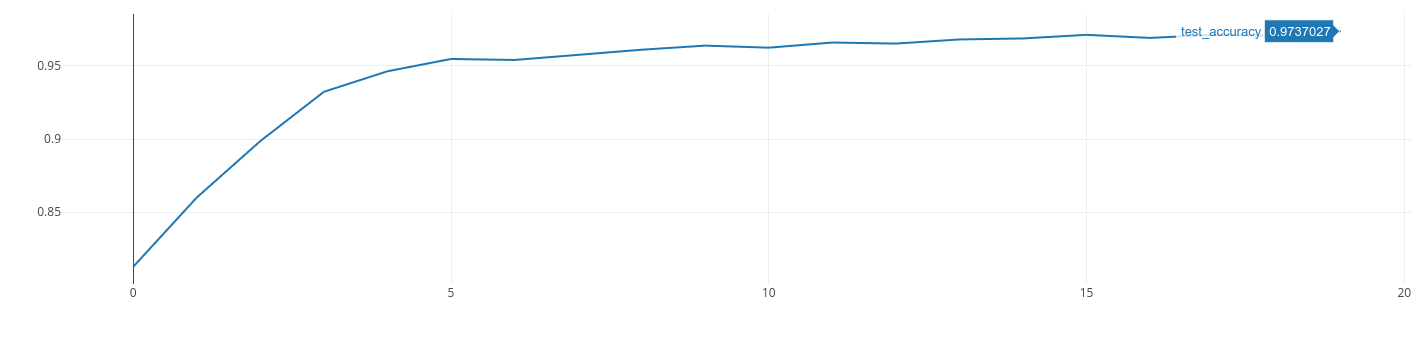
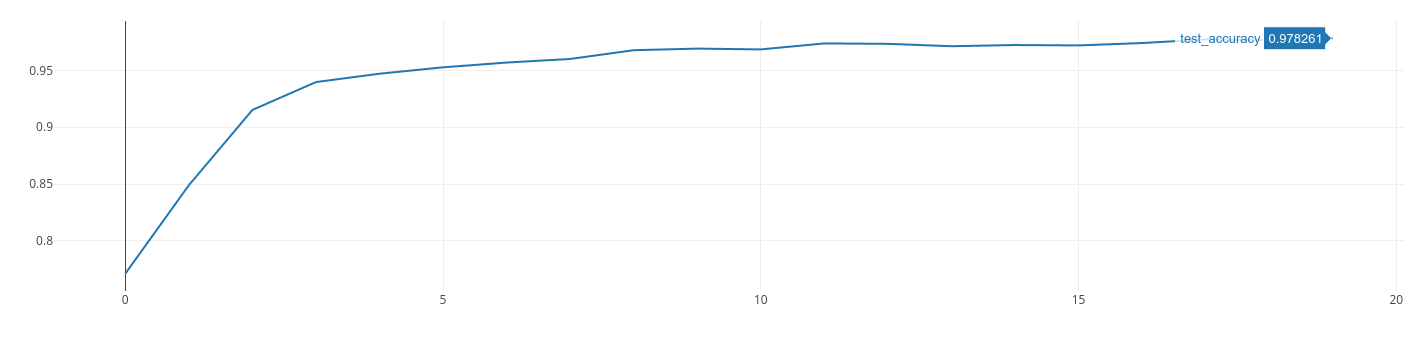
update torch

diff --git a/experiments/train_pytorch/train_pytorch.py b/experiments/train_pytorch/train_pytorch.py
@@ -45,10 +45,11 @@ class GestureClassifier(nn.Module):
 def train(
     model, train_loader, test_loader, criterion, optimizer, num_epochs=10, batch_size=128, device=torch.device("cpu")
 ):
-    # Train the model
-    train_predicted = []
-    train_labels = []
     for epoch in tqdm(range(num_epochs), desc="Epochs"):
+        # Train the model
+        train_predicted = []
+        train_labels = []
+
         # Set the model to training mode
         model.train()
 
@@ -124,7 +125,6 @@ def train(
                 test_labels.extend(labels.tolist())
 
         # Compute the average test loss and accuracy for the epoch
-        test_loss /= len(train_loader)
         test_accuracy = accuracy_score(test_labels, test_predicted)
         test_f1 = f1_score(test_labels, test_predicted, average="macro")
 
@@ -132,7 +132,7 @@ def train(
         mlflow.log_metric("test_f1", test_f1, epoch)
 
         # Print the test loss and accuracy for the epoch
-        print(f"\nTest Epoch {epoch + 1}: Loss={test_loss:.4f}, Accuracy={test_accuracy:.4f}, F1={test_f1:.4f}\n")
+        print(f"\nTest Epoch {epoch + 1}: Accuracy={test_accuracy:.4f}, F1={test_f1:.4f}\n")
 
 
 def main():

diff --git a/README.md b/README.md
@@ -51,7 +51,7 @@
 | Случайный лес           | 0.969    | 0.969 |
 | XGBoost                 | 0.989    | 0.989 |
 | CatBoost                | 0.987    | 0.987 |
-| Нейронная сеть          | 0.974    | 0.973 |
+| Нейронная сеть          | 0.978    | 0.978 |
 
 ![mlflow_table](img/mlflow_best.png)
 
